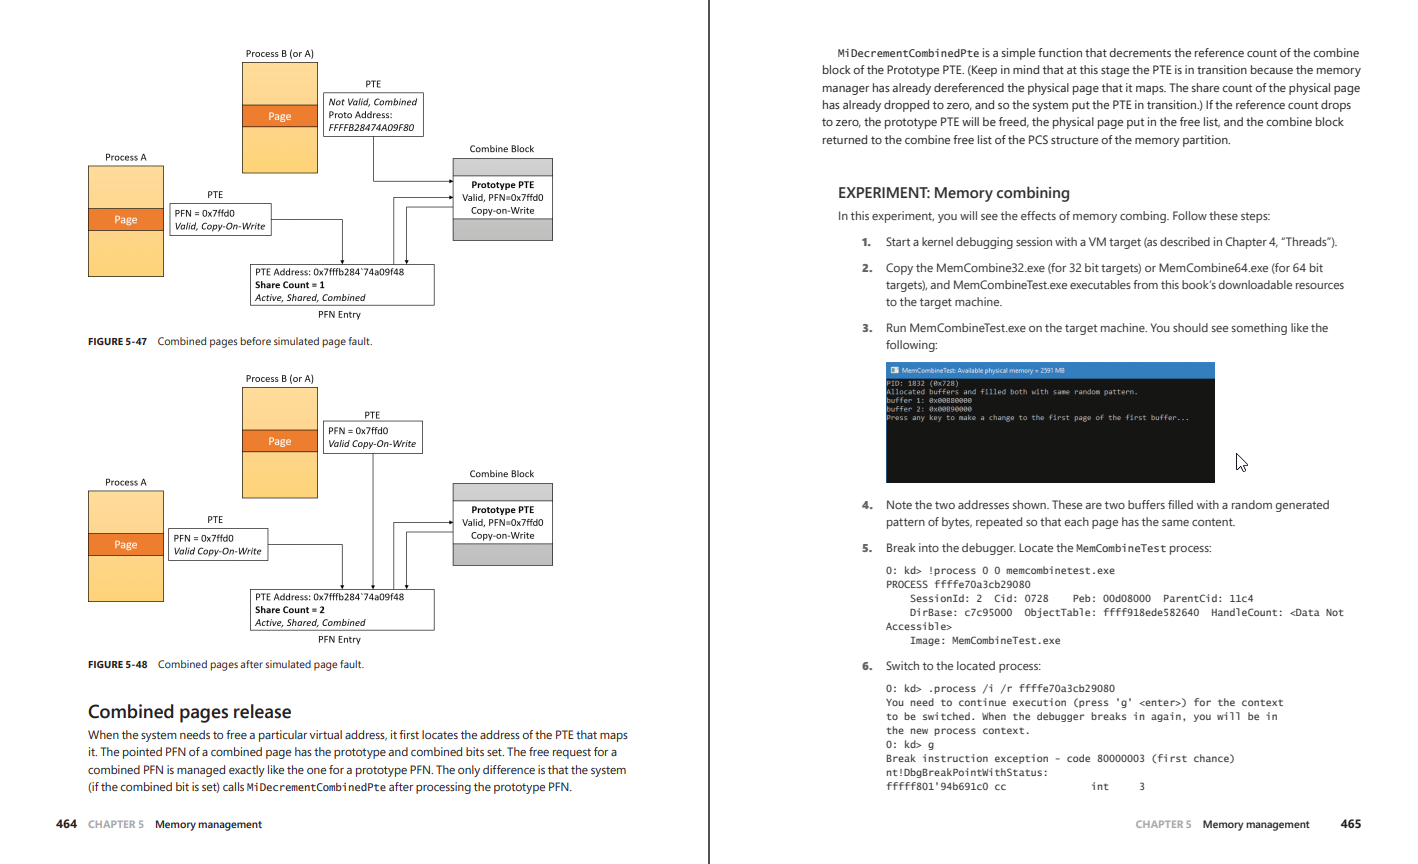
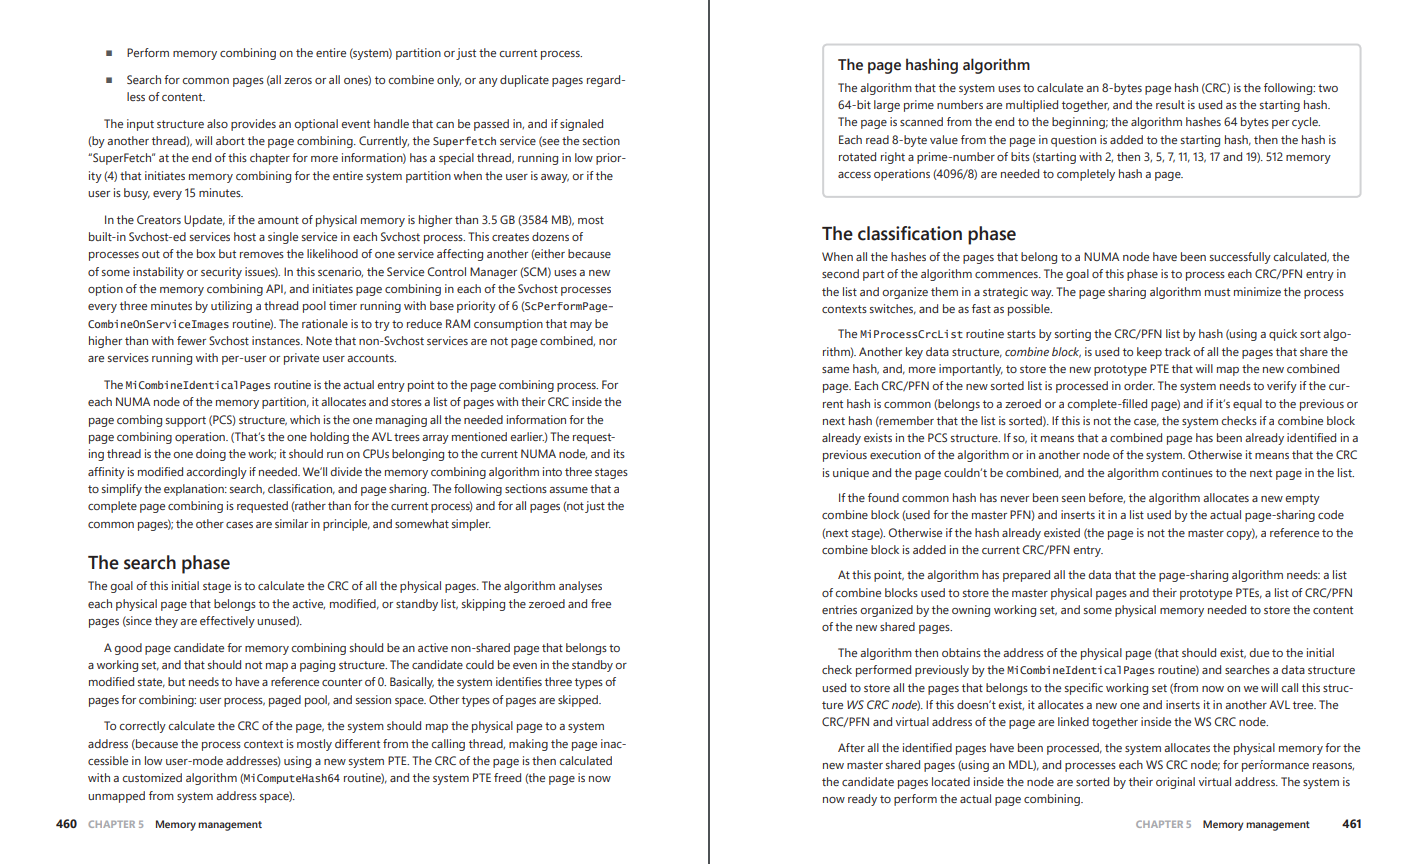
sort images

Changed region(s): [[0.5585, 0.0312, 0.9619, 0.9375], [0.0621, 0.0312, 0.4344, 0.9375], [0.8378, 0.9375, 0.9619, 0.9688]]

diff --git a/system/desc.md b/system/desc.md
@@ -1233,7 +1233,7 @@ if ( !v2 || !PspUseJobSchedulingClasses )
   return *((_BYTE *)&PspForegroundQuantum + (PsPrioritySeparation & (unsigned int)-(a2 != 0))); // a2 == 0 uses index 0
 ```
 
-The ms were calculated while `KeMaximumIncrement` = `2625a`/`15.625 ms` (`5.208 ms` per QU on 23H2, `0.868 ms` per 24H2 `ShortThreadQuantum` QU), see '[Cycles per QU](https://noverse.dev/docs/win-config/system/priority-separation/#cycles-per-qu)'.
+The ms were calculated while `KeMaximumIncrement` = `2625a`/`15.625 ms` (`~5.208 ms` per QU on 23H2, `~0.868 ms` per 24H2 `ShortThreadQuantum` QU), see '[Cycles per QU](https://noverse.dev/docs/win-config/system/priority-separation/#cycles-per-qu)'.
 
 | Quantum table | Index `0` | Index `1` | Index `2` |
 | --- | ---: | ---: | ---: |
@@ -1607,7 +1607,7 @@ CP  F/M/S Manufacturer  MHz PRCB Signature    MSR 8B Signature Features Architec
 11 25,33,2 AuthenticAMD 3700 000000000a201213                   3c3b3dff 0
 ```
 
-Then combine that MHz value with the decimal `KeMaximumIncrement` (same as clockres '*Maximum timer interval*') value. `KeMaximumIncrement` is measured in 100ns units, means `0x2625A` is `156250` (`15.625 ms`), one QU is therefore `15.625 / 3 = 5.208 ms`.
+Then combine that MHz value with the decimal `KeMaximumIncrement` (same as clockres '*Maximum timer interval*') value. `KeMaximumIncrement` is measured in 100ns units, means `0x2625A` is `156250` (`15.625 ms`), one QU is therefore `15.625 / 3 = ~5.208 ms`.
 
 ```c
 lkd> dd KeMaximumIncrement L1
@@ -7110,9 +7110,9 @@ PSComputerName               :
 
 ## [Windows Internals](https://github.com/nohuto/Windows-Books/releases/download/7th-Edition/Windows-Internals-E7-P1.pdf)
 
-![](https://github.com/nohuto/win-config/blob/main/system/images/memcompress1.png?raw=true)
-![](https://github.com/nohuto/win-config/blob/main/system/images/memcompress2.png?raw=true)
 ![](https://github.com/nohuto/win-config/blob/main/system/images/memcompress3.png?raw=true)
+![](https://github.com/nohuto/win-config/blob/main/system/images/memcompress2.png?raw=true)
+![](https://github.com/nohuto/win-config/blob/main/system/images/memcompress1.png?raw=true)
 
 # Disable Page Combining
 
